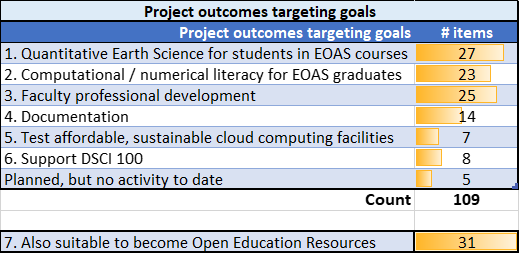
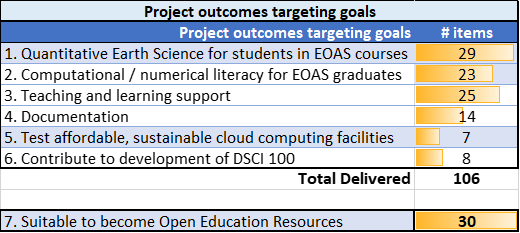
updates to April 4th

diff --git a/docs/crs-eosc354.md b/docs/crs-eosc354.md
@@ -27,21 +27,22 @@ COURSE OUTLINE
 ## Actions taken
 
 * **Circumstances**
-  * The first core (not elective) upper level course that the OCESE project converted to Python. Two other courses in the Dep't were already using Python (ATSC 301 and EOSC 213), and at least two were permitting students to use either MatLab or Python (EOSC 354 and EOSC 410).
+  * This was the first core (not elective) upper level course that the OCESE project converted to Python. Two other courses in the Dep't were already using Python ([ATSC 301](https://www.eoas.ubc.ca/academics/courses/atsc301) and [EOSC 213](https://www.eoas.ubc.ca/academics/courses/eosc213)), and at least two were permitting students to use either MatLab or Python (this course (EOSC 354) and [EOSC 410](crs-eosc410.md)).
   * COVID: Fall 2021 was “in person” but with mandatory masks, and still “not normal”.
-  * This is a small class of 10-15 students each year. Also, students learn to install the necessary software on their own computers. Therefore, logistics of deliverying Python-based Jupyter Notebooks is not burdened by the need for Jupyter hubs that (a) need special environments or (b) need to scale resources up and down according to demand of large numbers of studetns.
+  * Enrollmenet: 10-15 students each year. Students learn to install the necessary software on their own computers. Therefore, logistics of deliverying Python-based Jupyter Notebooks is not burdened by the need for Jupyter hubs that (a) need special environments or (b) need to scale resources up and down according to demand of large numbers of studetns.
 * **Assignments or "labs"**: The first 8 were in place for start of course, while assignments 9-11 were completed in time for use in Oct-Nov.
-* **Skills check assessment** (Assignment 0): Nine specific skills are defined, tasks to check if the student can demonstrate these skills are posed, and pointers to documentation are provide for further details about each skill.
+* **Skills check exercise** (Assignment 0): Nine specific skills are defined, tasks to check if the student can demonstrate these skills are posed, and pointers to documentation are provide for further details about each skill. See exercise [here](SkillsCheck-solns.ipynb).
 * **Installation guidelines** were developed in parallel with those for EOSC 211, and based on experiences in ATSC 301.
 * **Jupyter hubs** are not needed for this course since one learning goal is for students to gain skills related to installing, managing and using Python on their own computers.
+* **Dashboards**: Use of dashboards for illustrating or exploring concepts was discussed, and one prototype for demonstrating Fourier Transform reconstruction of periodic signals was prepared. It was not used but is in the OCESE [dashboard list](dashboards.md). One reason for not pursuing this development was that the instructor produced short notebooks himeselve for demonstrating concepts in class. There are also many such resources in the public domain that can be found online.
 
 ## Instructors' experiences
 
-The instructor was a first-time teacher (PhD student) filling in while the normal instructor was on leave. He had been teaching assistant for the course in pervious terms and new the content well.
+The instructor was a first-time teacher (PhD student) filling in while the normal instructor was on leave. He had been teaching assistant (TA) for the course in pervious terms and knew the content well.
 
 Some key comments from a debriefing interview with this instructor 2 months after the course was completed:
 
-* It went quite smoothly - content and pacing was kept as close to prior terms as possible.
+* The course proceeded smoothly with few surprises or difficulties. Content and pacing were kept as close to prior terms as possible.
 * The switch to Python was simple - no big issues.
 * Lab time, and marking load, were much as before.
 * Logistics worked well for this small course. Students fetch notebook files (*.ipynb) from the LMS (Canavas), work on their own laptops, and deliver completed work as a completed notebook file to the LMS. Teaching assistant fetches file, runs it and applies the marking rubric.
@@ -78,14 +79,14 @@ Five point Likert-sclae (agree/disagree) questions provide information about wha
 **Evidently** ...
 
 * All students agreed that learning Python was beneficial and that Jupyter Notebooks worked well for deliverying and working on assignments.
-* The early "skills check" Jupyter Notebook was definitly approved of.
+* The early "[skills check](SkillsCheck-solns.ipynb)" Jupyter Notebook was definitly approved of.
 * The text book seems to be NOT useful. This could be improved. The lecture material and assignment steps might need a new timeseries text book that uses a current programming context for discussing concepts and applications.
 * The midterm exam may be too "theoretical" given that students spend most of their time practice the application of coding to address problems.
 * The instructing and the learning experiences were all good.
 
 **Selected responses to open-ended feedback questions**:
 
-Clearly a thoughtful and insightful set of students. Adjustments suggested seem mostly about supporting development the "maturity" associated with translating a problem into code. The theory is one thing, the coding skills are another, and bringing the two together is particularly challenging when both are being developed simultaneously. But the course was generally appreciated. 
+These were clearly a thoughtful and insightful set of students. Adjustments suggested seem mostly about supporting development the "maturity" associated with translating a problem into code. The theory is one thing, the coding skills are another, and bringing the two together is particularly challenging when both are being developed simultaneously. But the course was generally appreciated.
 
 * What has been most helpful for your learning in this course so far?
   * _I really like how fast the instructor responds to his emails. He always answers my questions in detail and it helps a lot_.
@@ -106,16 +107,16 @@ Clearly a thoughtful and insightful set of students. Adjustments suggested seem 
   * _The assignments are way too long and I know that other students feel the same way. They can take up to 13 hours to complete. It would be nice if some of the questions could be taken out and turned into optional practice_.
   * _I guess I don't find the coding useful for learning material_.
   * _Midterm was really challenging. Felt it was much more conceptual that I expected, and the conceptual problems were difficult to solve, ie could have used some more practice. Also, there were no problems similar to the assignments_.
-  * _Insntructor and TA are great teachers :)_.
 
+One insightful comment from the instructor (who had taken the course 5 years previously) is: "_The comment about the assignments sometimes being long/arduous I think is shared among all these students. [But] I would have given similar feedback when I was taking the course in 2017._”
 
-One insightful comment from the instructor (who had taken the course 5 years previousl) is: "_The comment about the assignments sometimes being long/arduous I think is shared among all these students. [But] I would have given similar feedback when I was taking the course in 2017._”
+Feedback was also obtained from one student who found the course particularly inpsiring about workloads, challenges, and experiences considered to be paritcularly rewarding or inspiring. These are useful for sharing with prospective students (eg as part of the [QuEST project](https://blogs.ubc.ca/eoasquest/)), but are out-of-scope for the OCESE project.
 
 ## Costs
 
 Resources used to accomplish this course transformation (from MatLab to Python, using Jupyter notebooks) included:
 
-* One half-time undergraduate student with exceptional programming skills who had also taken the course only 7 mths prior to carrying out the conversion.
+* One half-time undergraduate student with exceptional programming skills who had also taken the course only 7 mths prior to carrying out the conversion. Programming & testing new Python versions of each of the 11 labs took averaged roughly 8 hrs each. Generating, testing and iterating the "skills-check" Jupyter Notebook took roughly 40 hrs.
 * Project coordinator who also had some experience with course content (perhaps ~10% f.t.e. on this component of the OCESE project) to supervise that student and liaise with project management and the faculty members involved in teaching the course.
 * The first deployment of this well-established course in it's new form required some attention to detail in the month prior to day1, including "test driving" the logistics of delivery, completing, submitting, grading and returning assignments with feedback.
 

diff --git a/docs/crs-eosc211.md b/docs/crs-eosc211.md
@@ -10,27 +10,25 @@
 \>[ubcexplore](https://ubcexplorer.io/course/EOSC/211),
 \>[EOAS curriculum map](https://www.eoas.ubc.ca/~quest/eoas-only.html).
 
-## OCESE project goals for EOSC 211
+## OCESE project goals for EOSC 211 & Corresponding Actions
 
-* Convert all MatLab teaching and learning materials to Python
-* Convert all MatLab classroom and homework exercises to Python
-* Implement the course website using Jupyter Books.
-* Include weekly instructions and labs/assignments as Jupyter Notebooks. (See resources below).
-* Implement automatic grading practices using the Jupyter Notebook plugin [nbgrader](https://github.com/jupyter/nbgrader).
-* Adapt open source materials to make a suitable text book for programming (and Python) beginners.
-* Establish stable, sustainable Jupyter Hub facilities at UBC for with reliable tech-support for instructors and teaching assistants.
+Five project goals are listed with summaries of actions taken for each.
 
-## Actions taken
-
-* [EOSC211 course website](https://phaustin.github.io/eosc211_students/announcements.html), a **Jupyter Book** including calendar of topics, links into relevant sections of the text book, and assignments & labs provided as **Jupyter Notebooks**.
-* [Text book](https://phaustin.github.io/Problem-Solving-with-Python/), mainly python programming for beginners. Adapted from [Problem Solving with Python-37](https://github.com/professorkazarinoff/Problem-Solving-with-Python-37-Edition) by Dr. Peter Kazarinof.
-* Jupyter Notebooks with Python code exercises and activities for classwork.
-* Getting-started instructions for students to install Python and Jupyter Notebooks on Windows or Mac laptops. This was done with 90 students in one  1.5-hour lecture session.
-* A [Jupyter Hub tutorial](tut-jhubs.md) for EOSC211 students, but easily generalized. This also serves as the first introduction to coding with Python.
-* Grading is accomplished using nbgrader.
-* Restricted **Canvas** site for delivery and submission of assignments, assignment data sets, and other course content.
- * UBC open Jupyter hub piloted (fall 2022).
-   * _Refer to hub feedback in file (221209-HubFeedback.xlsx)_.
+1. **Python conversion**: Convert classroom, lab and homework teaching and learning materials from MatLab to Python, deployed as Jupyter Notebooks.
+   * Completed largely by one graduate student employed part time, who then served as teaching assistant during the first deployment of the course's new Python version.
+2. **Jupyter Hubs**: Establish which cloud-based approaches for serving Jupyter Notebooks will be the most stable, sustainable, scaleable.
+   * First hub was deployed on Departmental server as UBC did not yet have a dedicated hub for undergraduate learning.
+   * UBC open Jupyter hub piloted (fall 2022). _Refer to hub feedback in file (221209-HubFeedback.xlsx)_.
+3. **Grading**: Introduce automatic (or semiautomatic) grading practices, probably using the Jupyter Notebook plugin [nbgrader](https://github.com/jupyter/nbgrader).
+   * Grading using nbgrader was attempted in fall 2021 but results were dissapointing.
+   * Fall 2022 saw a more add-hoc approach developed, improving efficienty and removing dependance on irregularly mantained 3rd party software (nbgrader).
+4. **Textbook & resources**: Introduce an [opensource textbook](https://phaustin.github.io/Problem-Solving-with-Python/Preface/Motivation.html), and deliver course content with similar open source technology.
+   * [Text book](https://phaustin.github.io/Problem-Solving-with-Python/), mainly python programming for beginners. Adapted from [Problem Solving with Python-37](https://github.com/professorkazarinoff/Problem-Solving-with-Python-37-Edition) by Dr. Peter Kazarinof.
+   * A Jupyter Book was built for delivering content such as syllabus, calendar of topics, links into relevant sections of the text book, and the Jupyter Notebooks for assignments & labs provided. This proved inefficient.
+   * The second iteration reverted to use of UBC's [canvas](https://about.canvas.ubc.ca/) Learning management system for delivery and submission of lecture materials, assignments, assessments, and other course content.
+5. **Documentation**: Prepare documentation for procedures that teachers and students need for using open source resources, Jupyter hubs, installing Python, and preparing assessments for sem-automated grading.
+   * Getting-started instructions for students to install Python and Jupyter Notebooks on Windows or Mac laptops. This was done with 90 students in one  1.5-hour lecture session.
+   * Also a [Jupyter Hub tutorial](tut-jhubs.md) for EOSC211 students, but easily generalized. This also serves as the first introduction to coding with Python.
 
 ## Instructors' experiences
 

diff --git a/docs/course_materials.md b/docs/course_materials.md
@@ -8,9 +8,45 @@ Other courses were impacted on smaller scales by introducing one or more interac
 
 Where feasible the course impact summaries include comments on these aspects:
 
-* Goals: intended improvements, and why;
-* Actions taken
-* students’ experiences;
-* instructors’ experiences;
-* costs & steps to design, build, test, deploy, & evaluate;
-* lessons learned and next steps if any.
+1. Goals: intended improvements, and why;
+1. Actions taken
+1. Students’ experiences;
+1. Instructors’ experiences;
+1. Costs: time taken & steps to design, build, test, deploy, & evaluate;
+1. Lessons learned and next steps if any.
+
+Courses and goals are summarized in the following two tables, one for each primary project objective.
+
+### 1. Increasing students' exposure to quantitative aspects of Earth science
+
+|Course|OCESE goals|
+|:---|:---|
+|****ENVR300**| 1) Make in-class exploration of the “modeling process” interactive.<BR>2) Provide a self-directed interactive resource to explore “signals, noise, trends & smoothing”.|
+|**DSCI100**| Support development of a Python version of this “R” course, including use of an EOAS context.
+|**EOSC112**| 1) Consult regarding climate science initiative by helping choose, implement & evaluate 2 activities.<BR>2) Support implementation & evaluation of an activity that uses the IPCC’s online Climate Atlas dashboard.<BR>3) Develop a dashboard based on a web resource about factors contributing to global temperature. |
+|**EOSC116, 326**|1) Incorporate some aspect of climate science into the courses. <BR>2) Build a versatile, Python-based sketching activity dashboard.|
+|**EOSC116**|Complete an opensource online learning resource and assignment. |
+|**EOSC310**|Build a dashboard characterizing a daisyworld behavior as timeseries.|
+|**EOSC323**|Incorporate a new interactive Mohr’s circle dashboard into students’ learning.|
+|**EOSC325**|Design and implement 3 dashboards for a new 3rd yr hydrogeology course. |
+|**EOSC340**|1) Compare trends in fractional low cloud cover for a range of  CMIP6 models and scenarios. <BR>2) Compare differences between CMIP6 models & scenarios for different climate variables.<BR>3) Implement  PrairieLearn; not an OCESE project but consistent with OCESE objectives. |
+|****EOSC372**|Design & build a data-exploration dashboard for an assignment requiring students to observe & compare trace element & physical properties in water column at selected locations in 3 oceans.|
+|**EOSC373**|Explore options for introducing data- or concept-exploration dashboards.|
+|**EOSC429**|Design & build a dashboard for exploring 1D diffusion/advection of groundwater contamination.|
+|**EOSC442**|Convert four MatLab exercises to Python Jupyter notebooks.|
+
+<BR>
+
+### 2. Enhancing computational & numerical literacy of EOAS graduates
+
+|Course|OCESE goals|
+|:---|:---|
+|**ATSC301**|Serve as precedent for use of opensource resources and tactics in senior quantitative EOAS courses. Students develop Python skills, use opensource resources, and apply GitHub version control and collaboration practices. Automated grading is also used. |
+|****EOSC211**|Full courses transformation of this introductory course on computing for Earth sciences.  <BR>1) convert all classroom activities, assignments and labs from MatLab to Python,<BR> 2) implement cloud based Jupyter hub technology for all computing, <BR> 3) automate (or semi-automate) grading of students’ work, <BR> 4) use an opensource textbook and deliver course content with similar open source technology,<BR> 5) build open source documentation for guidelines, tutorials and course content. |
+|****EOSC354**|Convert 11 labs from MatLab to Python and establish efficient workflow for students who use their own computers but submit their code for manual grading. |
+|**EOSC350**|1) Serve as precedent for use of Jupyter Notebooks as interactive learning resources for students with no programing skills.<BR>2) Help develop efficient procedures for using scalable Jupyter Hubs with custom environments. |
+|**EOSC410/510**|Convert activities & assignments to Python. Completed by one graduate student while taking the course as part of their own learning strategy, but without OCESE official support. |
+|**EOSC425**|Incorporate interactive dashboards to support learning about paleoclimate concepts. |
+|**EOSC471**|Convert all labs (including custom MatLab code) to Python-based Jupyter Notebooks. Students will make minor adjustments to explore oceanography concepts but will write their own code. |
+
+Three courses were identified in proposals but were not involved for various reasons: ENVR 420 and EOSC 329.

diff --git a/docs/execsum.md b/docs/execsum.md
@@ -1,6 +1,6 @@
 # OCESE project outcomes summary
 
-## OCESE PROJECT GOALS
+## 1. OCESE PROJECT GOALS
 **Two primary goals**: Develop open-source computational tools and techniques that will …
 
 1. …increase exposure to quantitative aspects of Earth Science in EOAS core and service courses,
@@ -8,19 +8,44 @@
 
 **Five goals in support of the top two:**
 
-3. Support / train new and existing faculty
-4. Document resources, guidelines, tutorials
-5. Develop & test affordable, sustainable cloud computing facilities
+3. Teaching and learning support for instructors and TAs.
+4. Document resources, guidelines, tutorials,
+5. Test affordable, sustainable cloud computing options,
 6. Support the FoS minor in Data Science and DSCI 100
 7. Introduce resulting materials and practices as Open Education Resources
 
-## Tables summarizing project output by _type_
+
+## 2. Summary of courses and other impacts
+The following table summarizes specific courses that were in the project proposal, those that were impacted, and corresponding enrollments (giving number of students affected).
+
+```{image} images/enrols.png
+:alt: ocese outcomes by type
+:align: center
+```
+
+<BR>
+
+Project outcomes or 'products' that are not directly related to specific courses include:
+
+* **Jupyter hubs**: Lessons learned about options;
+* **Dashboards**:
+  * web server requirements;
+  * Design guidelines (technical and pedagogic)
+* **Guidelines & procedures** for students,
+  * eg: Python / J-Notebooks installation specific to our courses, Dep’t & and UBC.
+  * Skills check to confirm prior knowledge
+* **Instructors / TAs**:
+  * Documentation,
+  * guidelines and tutorials,
+  * procedures and strategies,
+  * pedagogy and feedback.
+
+## 3. Summary of project output by _type_
 
 Each _product or contribution_ generated during the OCESE project can be classified as one of eight types of outcomes, with counts summarized as:
 
 ```{image} images/outcomes-type.png
 :alt: ocese outcomes by type
-:width: 500px
 :align: center
 ```
 <BR>
@@ -43,7 +68,6 @@ Individual courses benefitted from products or contributions as follows:
 
 ```{image} images/outcomes-type-courses.png
 :alt: ocese outcomes by type
-:width: 330px
 :align: center
 ```
 
@@ -63,29 +87,26 @@ Courses using dashboards or Jupyter Notebooks on local (own) computers or cloud-
 
 ```{image} images/outcomes-compute.png
 :alt: ocese outcomes by type
-:width: 320px
 :align: center
 ```
 
 ---
 
-## Tables summarizing project output by _goals_
+## 4. Summary of project output by _goals_
 
 Each _poduct or contribution_ can also be classified as targeting one of the the seven principle project goals:
 
 ```{image} images/outcomes-goals.png
 :alt: ocese outcomes by goals
-:width: 500px
 :align: center
 ```
 
 <BR>
 
-Items produced for each course are summarized here by project goals. See more notes about this table below it.
+Items produced for each course are summarized here by project goals. See more notes about this table below.
 
 ```{image} images/outcomes-goals-courses.png
 :alt: ocese outcomes by type
-:width: 350px
 :align: center
 ```
 <BR>
@@ -141,13 +162,13 @@ DSCI100 is taught in the UBC Department of Statistics, but this new Python secti
 
 **7. Open Source Resources (OERs) and pedagogies**
 
-All dashboards, course content (such as texts) and project tutorials or documentation emerging from the OCESE project are expected to be designated as OERs, assuming permission from stake holders is obtained.
+All dashboards, course content (such as texts) and tutorials, guidelines or other documentation emerging from the OCESE project are expected to be designated as OERs, assuming permission from stake holders is obtained.
 
 Resources that are NOT expected to be designated as OERs include those that have solutions to student work or activities.
 
 ---
 
-## Summary of courses impacted by OCESE
+## 5. Summary of courses impacted by OCESE
 
 Courses that were supported by OCESE project components.
 
@@ -171,4 +192,4 @@ Courses that were supported by OCESE project components.
 | EOSC442 | Climate Measurement and Analysis                                | 44   | Convert MatLab labs to Python & JNBs                     | All four computing labs. |
 | EOSC471 | Waves, Currents and Ocean Mixing                                | 18   | Convert MatLab assignments to Python with JNBs           | In progress 2023. |
 
-**Total numbers of students impacted over 3 years** = **3635**
+**Estimated total number of students impacted over 3 years** = **3635**

diff --git a/docs/fix-list.md b/docs/fix-list.md
@@ -3,8 +3,9 @@
 See also **[issues](https://github.com/eoas-ubc/eoas-ubc.github.io/issues)** at the host repository, **[requirements](https://docs.google.com/spreadsheets/d/1DL2YDthzEbZijx35nVyveSstU5frQdzA/edit#gid=173746334)** (Google sheet) for each project component, and **[accomplishments & data](https://docs.google.com/spreadsheets/d/1BUk1_FHItUgzuyg2aJ-dX6XpMABmFSPe/edit#gid=979565415)** (Google sheet) for project outcomes.
 
 ## Improvements
+
 * Jupyter / Python install based on EOSC 211 (and maybe EOSC 354). Does this include use of condalock?
-* github and workflows to be rewritten as summaries, perhaps based on (or simply pointing to?) the [Atlasian tutorials](https://www.atlassian.com/git/tutorials/comparing-workflows). Maybe also refer to [Ch.12 of the DSCI100 text](https://python.datasciencebook.ca/version-control.html) (still wiht R as context, but updates in progress).
+* Merge two github pages. They could be rewritten as summaries, perhaps based on (or simply pointing to?) the [Atlasian tutorials](https://www.atlassian.com/git/tutorials/comparing-workflows). Maybe also refer to [Ch.12 of the DSCI100 text](https://python.datasciencebook.ca/version-control.html) (still wiht R as context, but updates in progress).
 * Jupyter NB pages
   * The [Jupyterhub Tutorial](tut-jhubs.md) is mis-named. Consolidate this with [Jupyter NB startup](jnotebooks-startup.md) and possibly some of [teaching with Jupyter NBs](tut-teachwith-jnbs.md).
   * Consolidate parts of *Jupyterhub Tutorial* into *Servers and hubs*.
@@ -13,10 +14,19 @@ See also **[issues](https://github.com/eoas-ubc/eoas-ubc.github.io/issues)** at 
   * Jupyter notebook vs emerging Jupyter lab? This might need no more than a mention of this evolution as an example of the "moving target" for instructors. Notebook has been "sunset" - being replaced with a one-page version of lab.
   * *GitHub & Git workflows* and *Git introduction* pages need rationalizing.
   * *Conda & environments* and *Using environments* need rationalizing and updating.
+* Merge two environment pages
 * Tools page: clarify what's needed, maybe make sub-pages.
-* Add jupytext to pages about setting up J-notebooks, using notebooks for teaching, and likely others.
+* Add jupytext to pages about setting up J-notebooks, using notebooks for teaching, how J-Books uses it, and likely others.
+* Refine the inclusion of Jupyter Notebooks. Python Skills check is included but I'm not sure if it's done the best way possible. And there may be other notebooks for tutorials or guidelines. But get one right first.
+
+## Additions
+
+* where to house repositories? Those with PA, FJ, students, EOAS-
+* [Cited references](refs-citations.md) should be added throughout, as needed. This could be done using BibTex reference files - see the [Jupyter Books citation tutorial](https://jupyterbook.org/en/stable/tutorials/references.html).
+* More about open-source, with examples, esepcially w.r.t. earth sciences. Eg: pangeo, SimpEG, Fatiango, geosci.xyz, (find ocgy and atsc examples), Jupyter books (again, referring to UBC's examples open.ubc.ca. [Numerical Techniques for AOE scientists](https://rhwhite.github.io/numeric_2022/), R. White and S. Allen, DSCI100 [python text](https://python.datasciencebook.ca/intro.html)  & [repo](https://github.com/UBC-DSCI/introduction-to-datascience-python)
 
 ## Specific courses
+
 * DSCI 100:
   * notes from Lindsey
   * capture the slack thread. Done to Jan 6, 2023, file "dsci100-slack-230106.xlsx".
@@ -30,9 +40,3 @@ See also **[issues](https://github.com/eoas-ubc/eoas-ubc.github.io/issues)** at 
 * eosc471
 * eosc373 (describe actions and outcomes with Hal's JNB)
 * others?
-
-## Additions
-
-* Add an executive summary.
-* [Cited references](refs-citations.md) should be added throughout, as needed. This could be done using BibTex reference files - see the [Jupyter Books citation tutorial](https://jupyterbook.org/en/stable/tutorials/references.html).
-* More about open-source, with examples, esepcially w.r.t. earth sciences. Eg: pangeo, SimpEG, Fatiango, geosci.xyz, (find ocgy and atsc examples), Jupyter books (again, referring to UBC's examples open.ubc.ca. [Numerical Techniques for AOE scientists](https://rhwhite.github.io/numeric_2022/), R. White and S. Allen, DSCI100 [python text](https://python.datasciencebook.ca/intro.html)  & [repo](https://github.com/UBC-DSCI/introduction-to-datascience-python)

diff --git a/docs/crs-eosc116.md b/docs/crs-eosc116.md
@@ -13,7 +13,7 @@
 
 1. Implement an exercise that uses the [Global Temperature](dashboards.md) dashboard app to explore anthropogenic aspects of climate change to facilitate comparison between present and past climate patterns.
 
-2. Build a versatile dashboard to emulate sketch-based learning activities that will allow instructors to specify a background image upon which students can sketch or add annotations. Initial activities are to be based on precedent from activities developed with older software that has become awkward to deploy. Examples are (or were) live at [example 1](https://www.eoas.ubc.ca/~quest/Lab3-sketch.html) and [example 2](https://www.eoas.ubc.ca/~quest/Lab1-2sketches.html) PDF versions of the lab exercises can be seen at <a href="files/Lab3-sketch.pdf">PDF eg1</a> and <a href="ffiles/Lab1-2sketches.pdf">PDF eg2</a>.
+2. Build a versatile dashboard to emulate sketch-based learning activities that will allow instructors to specify a background image upon which students can sketch or add annotations. Initial activities are to be based on precedent from activities developed with older software that has become awkward to deploy. Examples are (or were) live at [eg 1](https://www.eoas.ubc.ca/~quest/Lab3-sketch.html), [eg 2](https://www.eoas.ubc.ca/~quest/Lab1-2sketches.html) and [eg 3](https://www.eoas.ubc.ca/~quest/Sketch-NorthAm.html). PDF versions of the lab exercises can be seen at <a href="files/Lab3-sketch.pdf">PDF eg1</a> and <a href="files/Lab1-2sketches.pdf">PDF eg2</a>.
 
 ## Resources produced
 

diff --git a/docs/oer.md b/docs/oer.md
@@ -7,6 +7,8 @@
 
 * Jupyter books - refer elsewhere
 * considerations regarding use or reuse of third party resources.
+* procedures for searching - UBC library guidelines.
+* procedures for submitting - UBC library contacts.
 * other stuff?
 
 ## Licensing and establishing OER status

diff --git a/docs/index.md b/docs/index.md
@@ -35,4 +35,4 @@ This book is powered by [JupyterBook](https://jupyterbook.org) and aims to be . 
 
 ---
 
-Website update 2023/03/17.
+Website update 2023/04/03.
